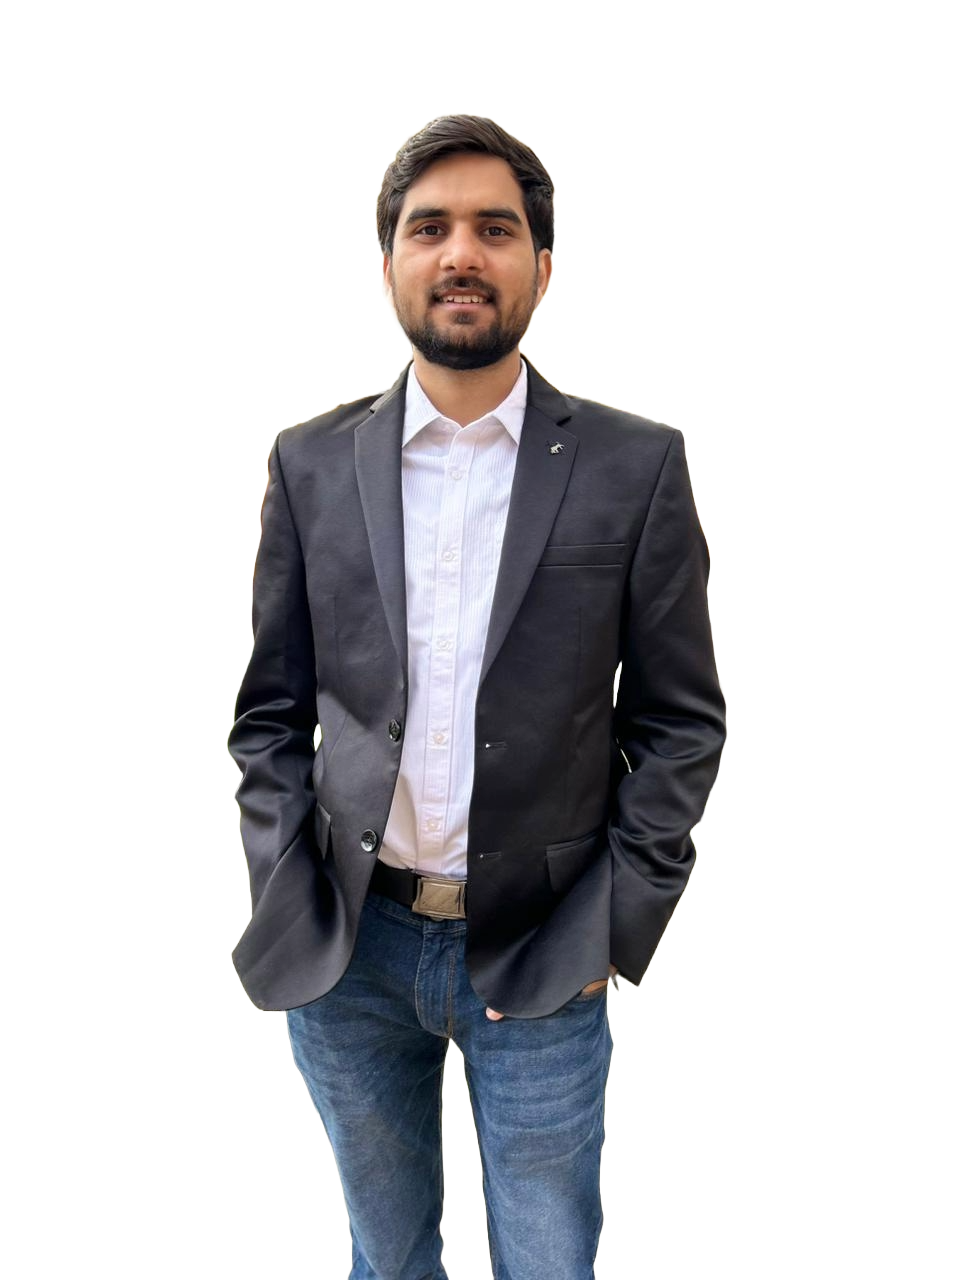
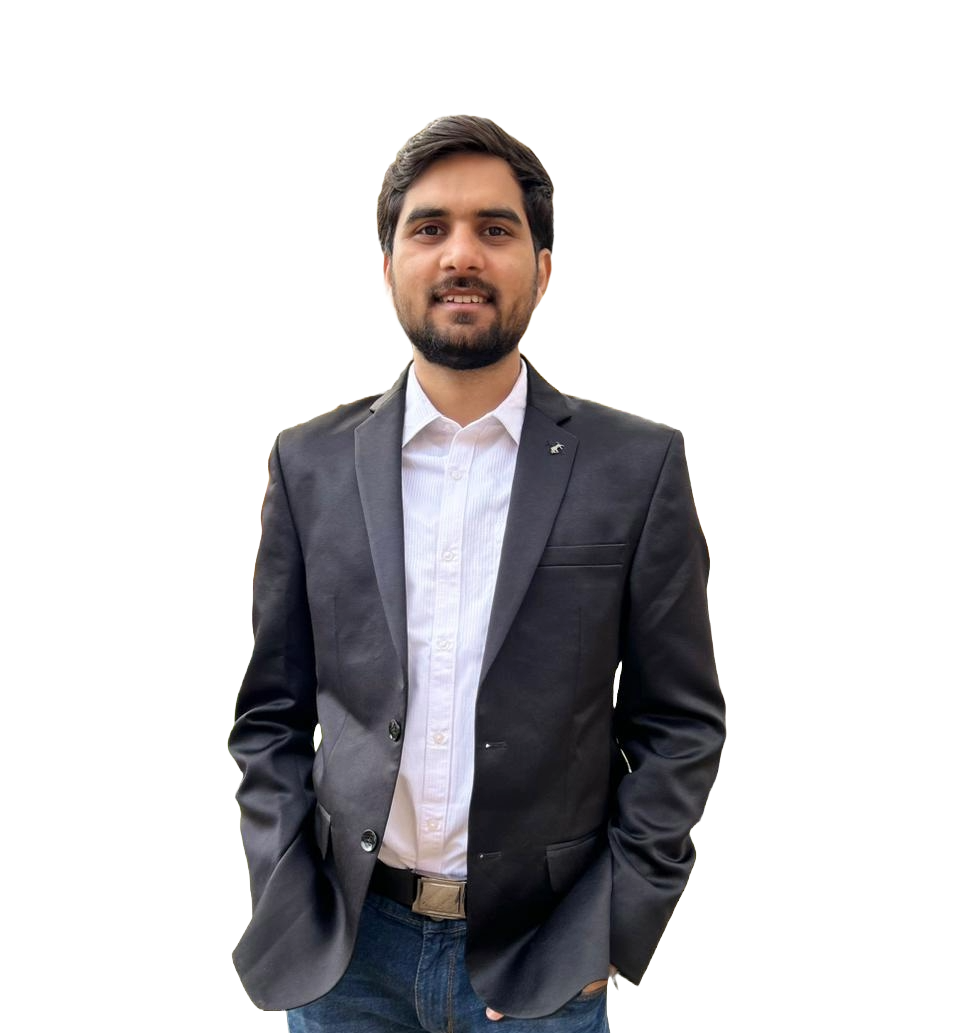
Long Image change and about me discription change

Changed region(s): [[0.2188, 0.062, 0.7812, 1.0]]

diff --git a/index.html b/index.html
@@ -298,9 +298,9 @@
 								<h1 class="big">About</h1>
 								<h2 class="mb-4">About Me</h2>
 								
-								<p>Hi, I'm Naman Singhvi, a passionate and goal-oriented Data Engineer with over 3+ years of experience designing scalable data solutions and optimizing performance. I recently completed my Master of Science in Data Analytics (STEM) from Clark University, where I deepened my expertise in machine learning, data visualization, and applied deep learning.
+								<p>Hi, I'm Naman Singhvi, a passionate and goal-oriented Data Engineer with over 3+ years of experience designing scalable data solutions and optimizing performance. I recently completed my Master of Science in Data Analytics from Clark University, where I deepened my expertise in machine learning, data visualization, and applied deep learning.
 
-									<br> My professional journey includes boosting query performance by 37%, migrating 2M+ records, and leading a team of engineers to deliver secure, scalable data platforms. With a strong foundation in SQL, Python, Azure Cloud, and building efficient ETL pipelines, I strive to create impactful solutions that empower organizations to make data-driven decisions.
+									<br> My professional journey includes increasing query performance by 37%, migrating 3M+ records, and leading a team of engineers to deliver secure, scalable data platforms. With a strong foundation in SQL, Python, Azure Cloud, and building efficient ETL pipelines, I strive to create impactful solutions that empower organizations to make data-driven decisions.
 									
 									<br>Let’s connect and collaborate on data engineering projects that drive value and innovation!</p>
 								<ul class="about-info mt-4 px-md-0 px-2">
